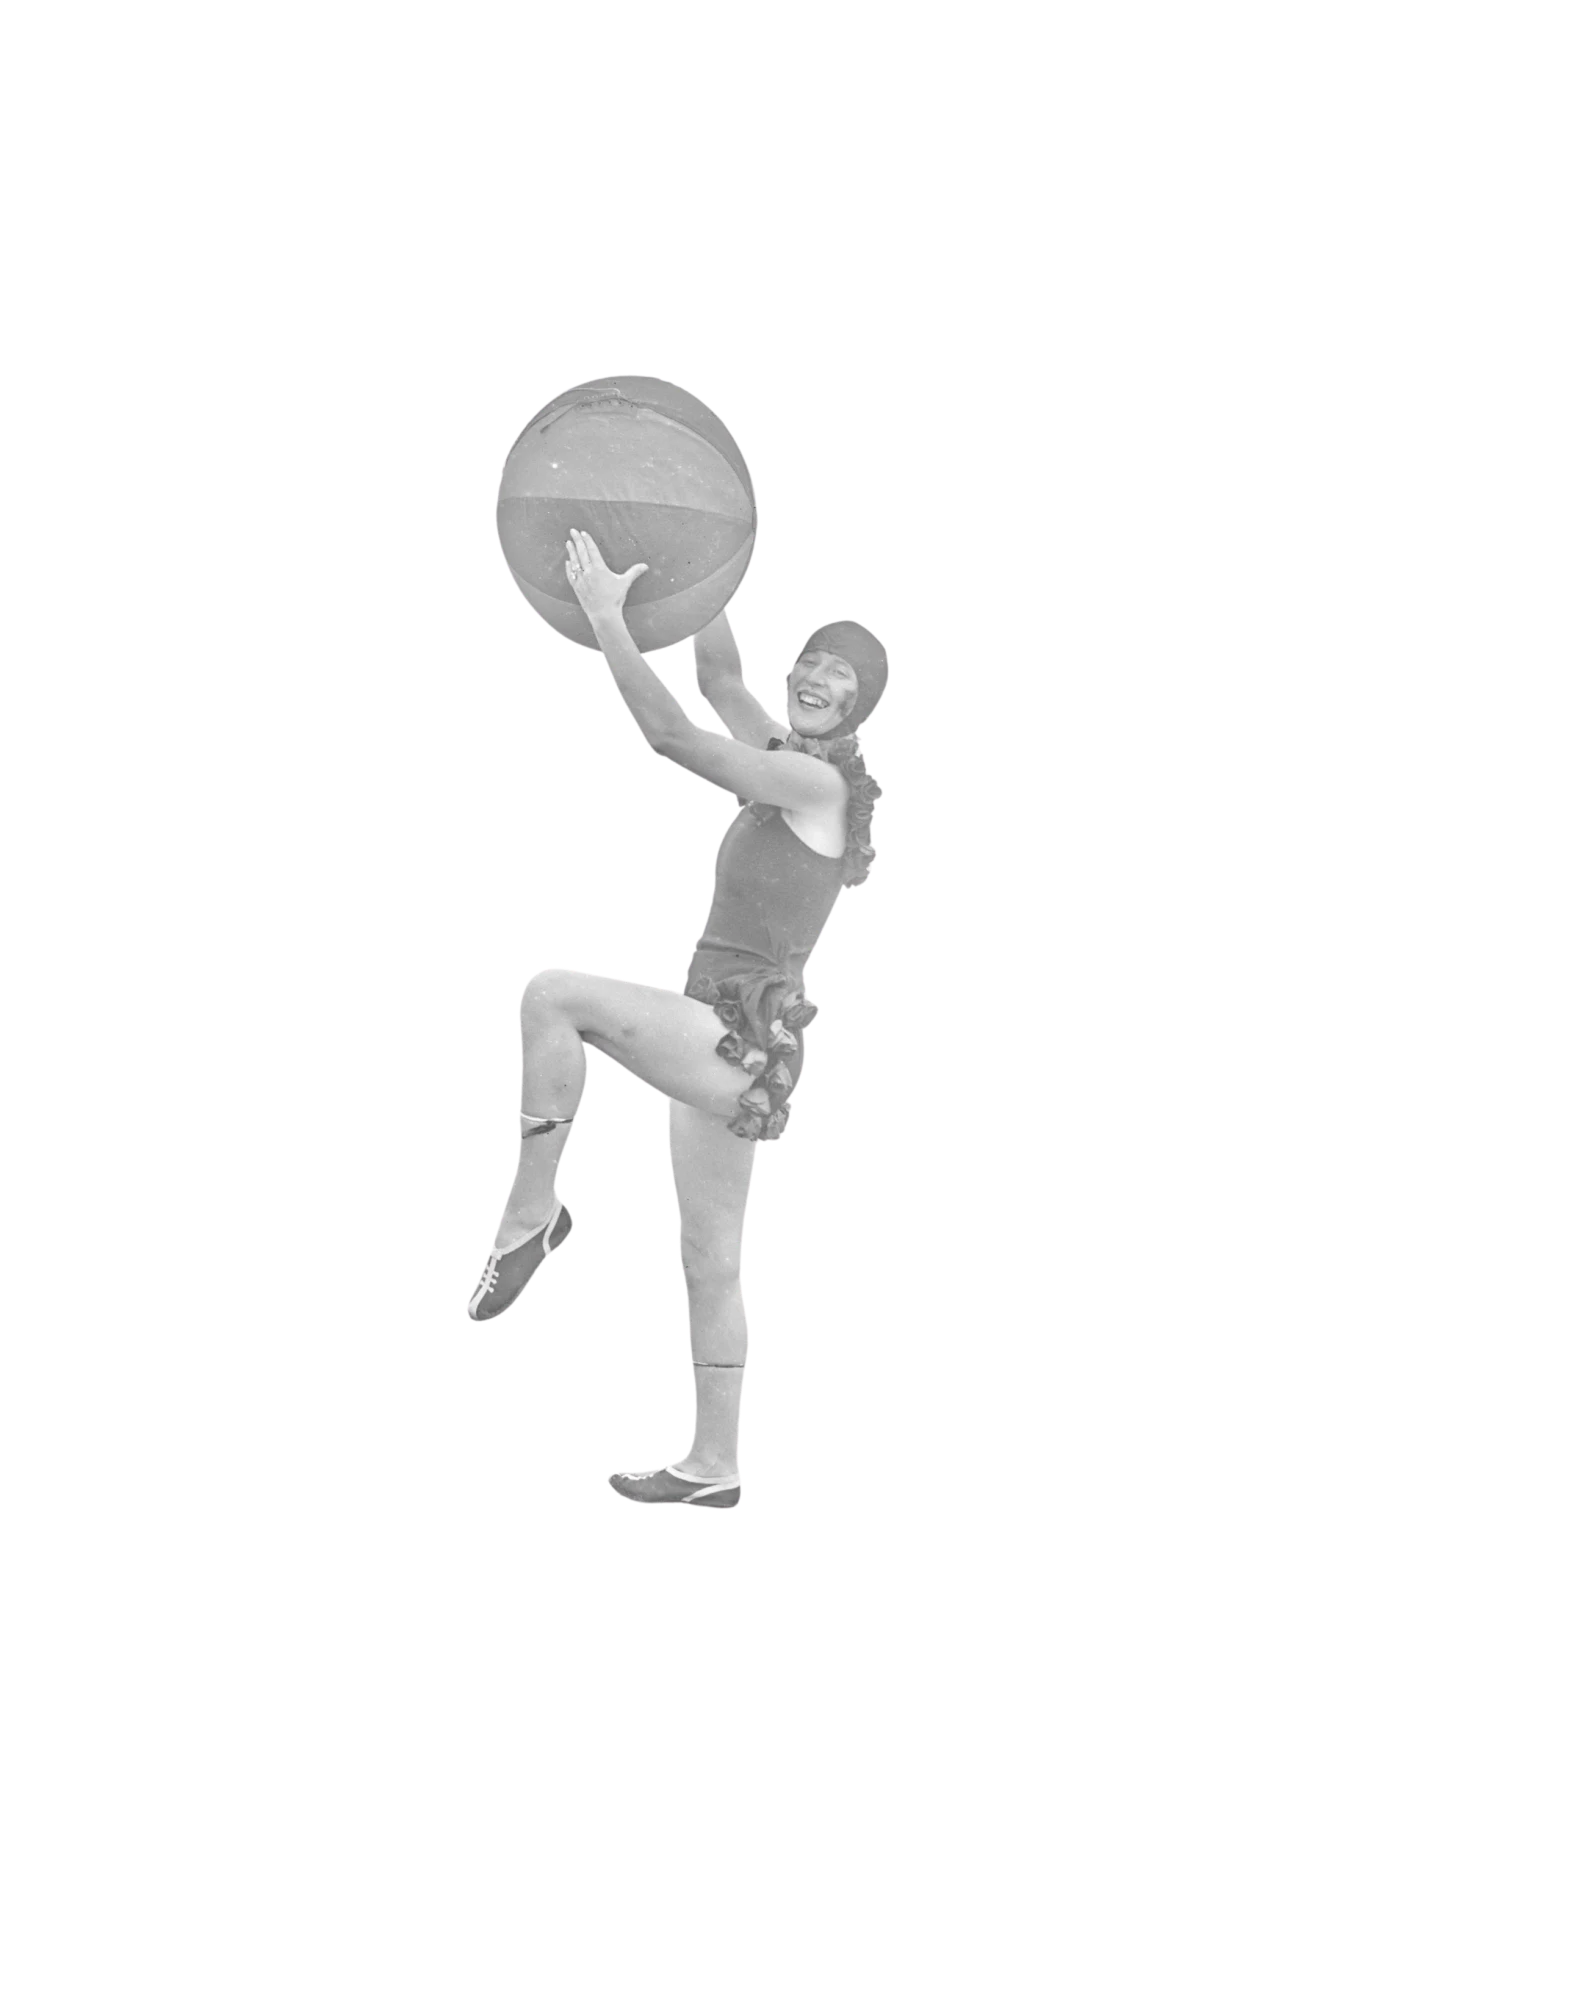
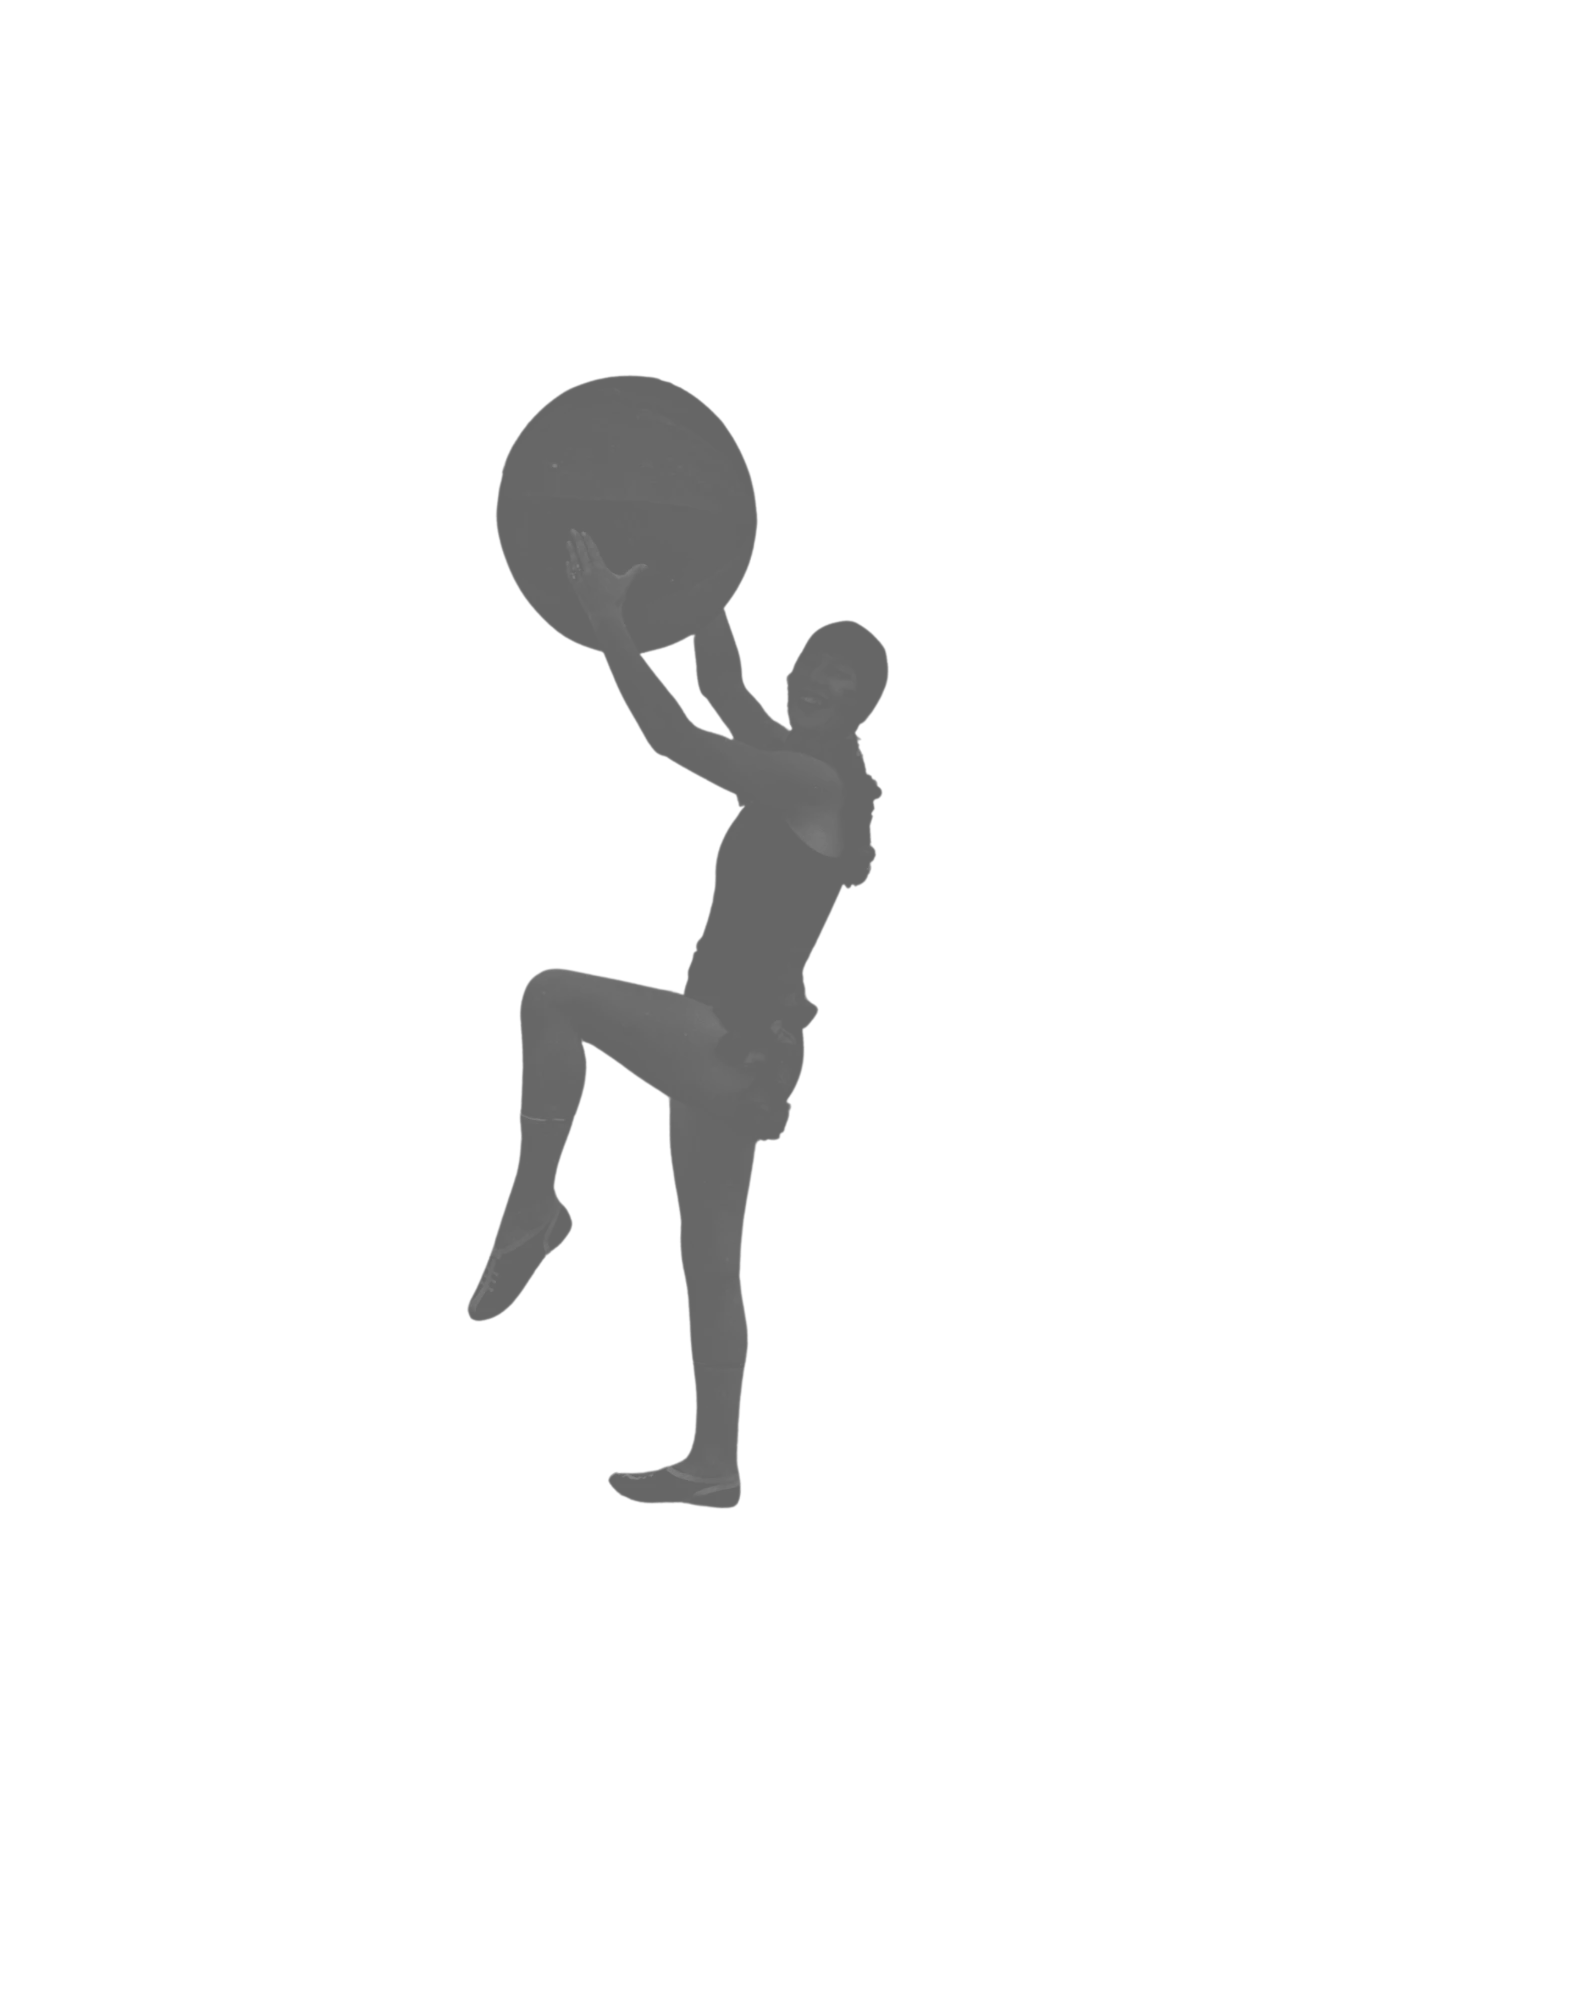
About: new grey figure graphic, light rules on dark themes, justified text, even heading/text rhythm, claim further below the figure

Changed region(s): [[0.28, 0.186, 0.56, 0.775]]

diff --git a/styles.css b/styles.css
@@ -61,9 +61,9 @@
 }
 
 /* Dunkle Abschnitte: helle Schrift und Linien */
-.theme-gruen { --bg: var(--color-gruen); --fg: var(--color-text-light); }
-.theme-rot   { --bg: var(--color-rot);   --fg: var(--color-text-light); }
-.theme-blau  { --bg: var(--color-blau);  --fg: var(--color-text-light); }
+.theme-gruen { --bg: var(--color-gruen); --fg: var(--color-text-light); --line: var(--color-text-light); --border: 1px solid var(--color-text-light); }
+.theme-rot   { --bg: var(--color-rot);   --fg: var(--color-text-light); --line: var(--color-text-light); --border: 1px solid var(--color-text-light); }
+.theme-blau  { --bg: var(--color-blau);  --fg: var(--color-text-light); --line: var(--color-text-light); --border: 1px solid var(--color-text-light); }
 .theme-gelb  { --bg: var(--color-gelb);  --fg: var(--color-text); }
 .theme-sand  { --bg: var(--color-sand);  --fg: var(--color-text); }
 
@@ -302,7 +302,7 @@ ul { padding: 0; list-style: none; }
 .era__inner { padding-left: 10.625rem; }                /* Text bei x = 170 px */
 .era__title { font-family: var(--font-display); font-size: var(--fs-h2); line-height: 1.15; font-weight: 400; }
 .era__eyebrow { margin-top: 3.5rem; font-size: var(--fs-nav); text-transform: uppercase; letter-spacing: 0.04em; }
-.era__text { margin-top: 5.25rem; max-width: 42.25rem; }   /* 676 px */
+.era__text { margin-top: 5.25rem; max-width: 42.25rem; text-align: justify; hyphens: auto; }   /* 676 px */
 .era__text p + p { margin-top: 0; }
 .era__more { display: inline-flex; margin-top: 4.75rem; font-family: var(--font-display); font-size: 1rem; text-transform: uppercase; letter-spacing: 0.04em; }
 .era__figure { position: absolute; right: 0; bottom: 0; height: 72%; width: auto; max-width: 40%; object-fit: contain; object-position: right bottom; }
@@ -332,25 +332,26 @@ ul { padding: 0; list-style: none; }
 
 /* ---------- 11. Über uns (PDF Seite 8, darunter Seite 7; eine durchgehende Figur) ---------- */
 .about { position: relative; overflow: hidden; }
-.about__intro { padding-top: 3.875rem; padding-bottom: 5.3125rem; }           /* Titel bei 290 px, Seitenende 810 px */
+.about__intro { padding-top: 3.875rem; padding-bottom: 0; }                   /* Titel bei 290 px */
 .about__intro-inner { padding-left: 4.6875rem; max-width: calc(4.6875rem + 49.625rem); }   /* Text ab x = 99, 794 px breit */
 .about__title { font-family: var(--font-display); font-size: var(--fs-h2); line-height: 1.18; font-weight: 400; }
-.about__intro .about__text { margin-top: 3.5625rem; }
+.about__intro .about__text { margin-top: 1.75rem; }
+.about__text { text-align: justify; hyphens: auto; }
 .about__text p + p { margin-top: 0; }
 
-.about__what { position: relative; padding-top: 4.6875rem; padding-bottom: 4.5rem; }
+.about__what { padding-top: 4.5rem; padding-bottom: 4.5rem; }
 .about__what-inner { padding-left: 3.625rem; max-width: calc(3.625rem + 49.625rem); }       /* Text ab x = 82 */
 .about__heading { font-family: var(--font-display); font-size: var(--fs-h4); line-height: 1.15; font-weight: 400; }
-.about__heading + .about__text { margin-top: 2.1875rem; }
-.about__text + .about__heading { margin-top: 4.3125rem; }
+.about__heading + .about__text { margin-top: 1.75rem; }
+.about__text + .about__heading { margin-top: 4.5rem; }
 .about__claim {
-  position: absolute; left: calc(50% + 15.3125rem); top: 18.3125rem;          /* x = 965, y = 293 */
+  position: absolute; left: calc(50% + 15.3125rem); top: 67rem;               /* x = 965, ca. 110 px unter den Füßen */
   font-family: var(--font-display); font-size: var(--fs-h2); text-transform: uppercase; line-height: 1; font-weight: 400;
   white-space: nowrap;
 }
 .about__figure {
   position: absolute; z-index: 1; pointer-events: none;
-  top: 21.6875rem; left: calc(50% + 5.6875rem); height: 57.375rem; width: auto;   /* Figur 519 px hoch, Ball ab y 520 */
+  top: 16.6875rem; left: calc(50% + 5.6875rem); height: 57.375rem; width: auto;   /* Figur 519 px hoch, Ball ab y 440, Füße bei ~958 */
 }
 
 /* Footer-Variante: nur die untere Zeile (PDF Seite 7) */
